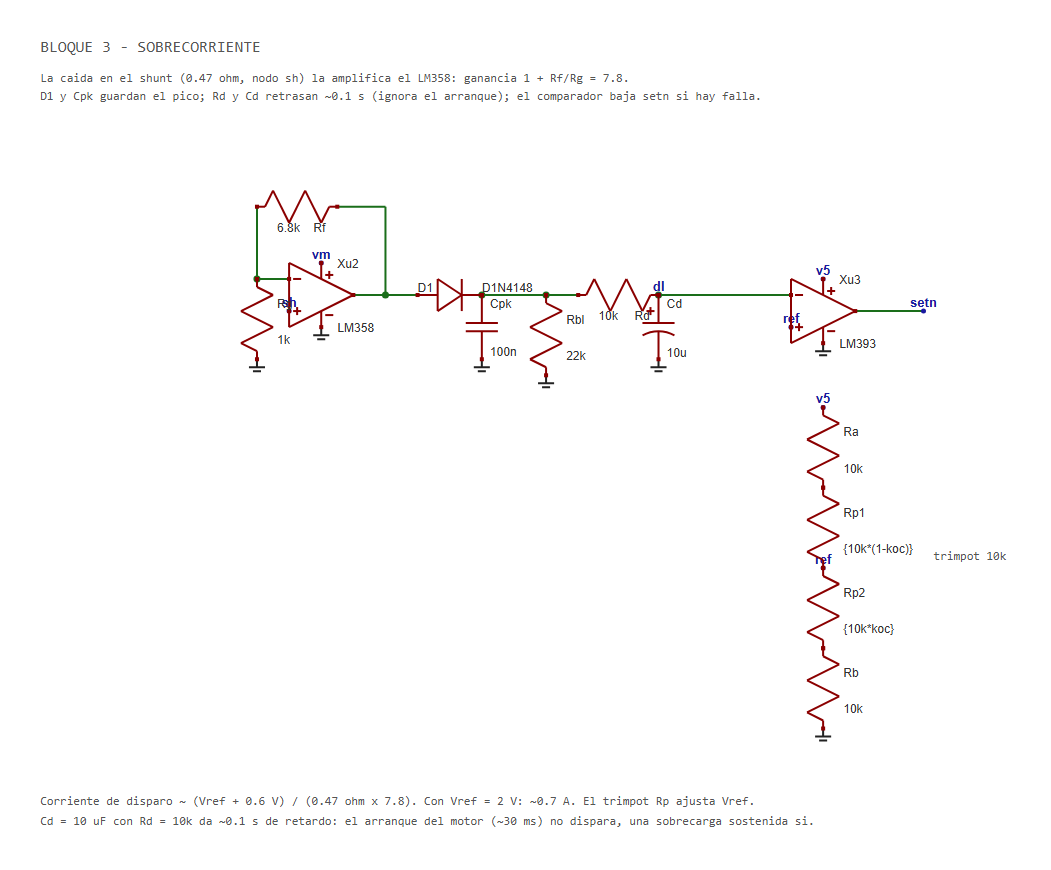
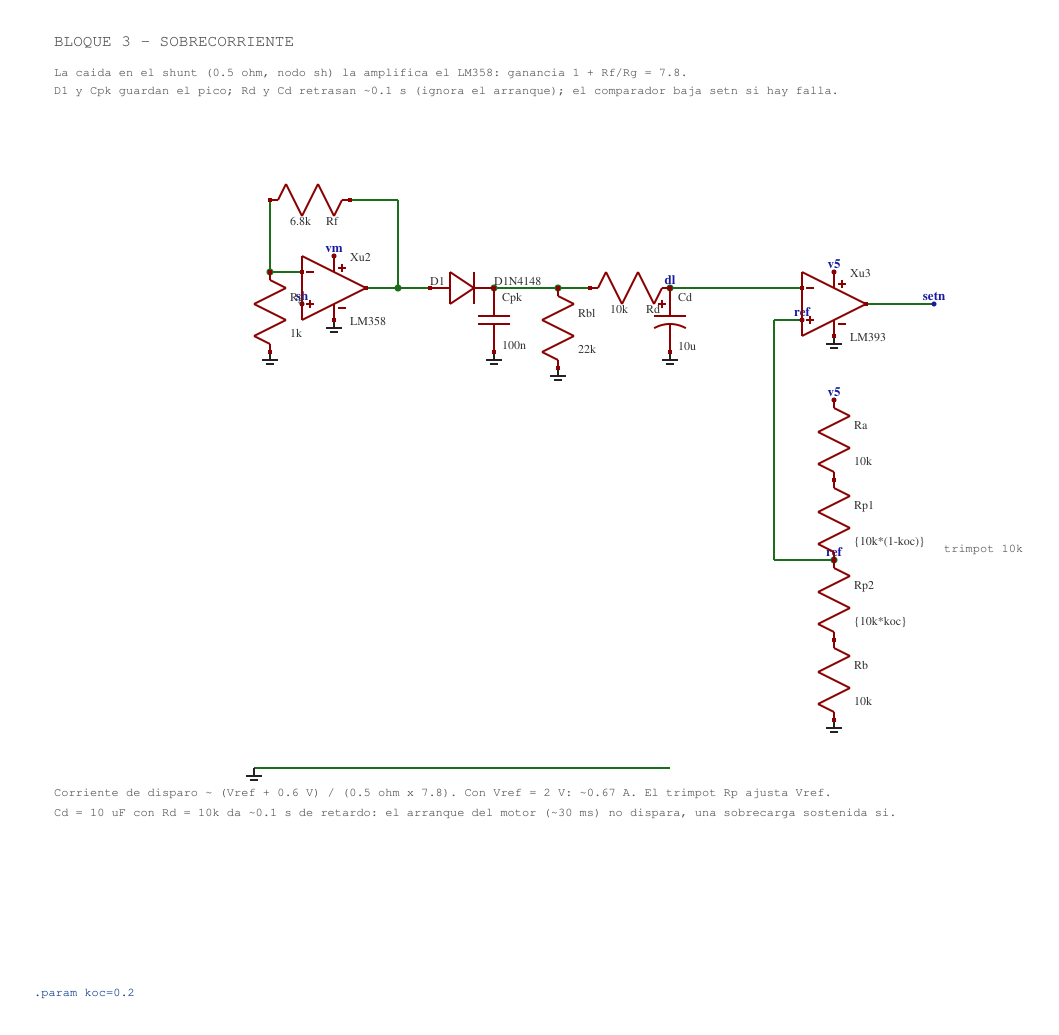
Docs: regenera los 11 BLOQUE_*.png desde los .asc actuales; analisis_desde_asc.py ya no falla si falta V(xpot:gate)

diff --git a/3_archivos_tecnicos/sim/analisis_desde_asc.py b/3_archivos_tecnicos/sim/analisis_desde_asc.py
@@ -28,5 +28,8 @@ print('I(D1) maxima %.3f A'%d['I(D1)'][m].max())
 print('arranque: Im max entre 0.1 y 0.4 s = %.3f A'%d['I(Lm)'][(tm>0.1)&(tm<0.4)].max())
 # compuerta y MOSFET en regimen normal
 mm=(tm>0.30)&(tm<0.31)
-print('compuerta: min %.2f max %.2f V ; Vds max %.1f V'%(d['V(xpot:gate)'][mm].min(),d['V(xpot:gate)'][mm].max(),d['V(dm)'][mm].max()))
+if 'V(xpot:gate)' in d:
+    print('compuerta: min %.2f max %.2f V ; Vds max %.1f V'%(d['V(xpot:gate)'][mm].min(),d['V(xpot:gate)'][mm].max(),d['V(dm)'][mm].max()))
+else:
+    print('compuerta: la senal V(xpot:gate) no esta guardada en este .raw; Vds max %.1f V'%d['V(dm)'][mm].max())
 np.savez_compressed('sistema_desde_asc_resumen.npz',**{k:d[k][::50] for k in ['time','V(v5)','V(vm)','V(p)','V(setn)','V(m)','V(n)','V(l)','V(f)','V(vref)','V(vspd)','V(vctrl)','V(w)','I(Lm)','V(tc)','V(tnode)','V(xoc:dl)']})
